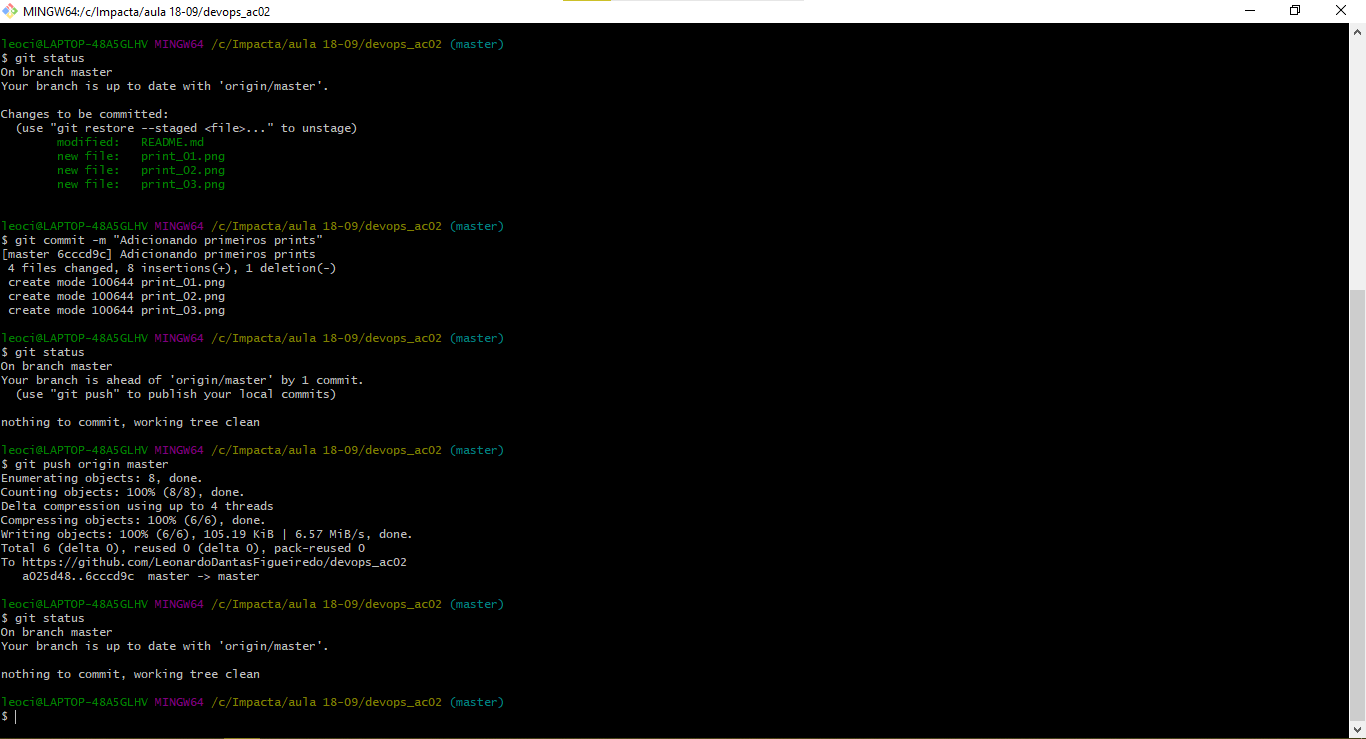
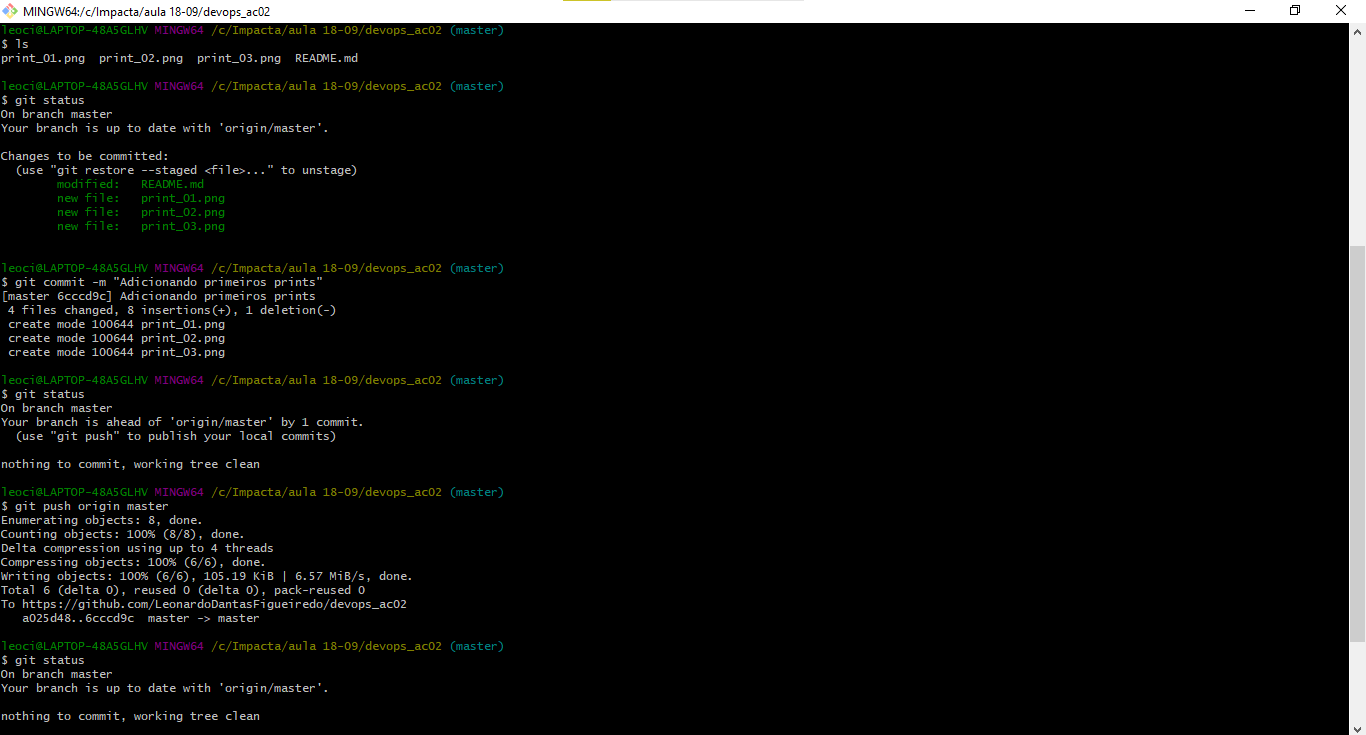
commit final

Changed region(s): [[0.0, 0.0299, 1.0, 1.0], [0.9839, 0.3293, 1.0, 0.3891], [0.2152, 0.2095, 0.2767, 0.2395]]

diff --git a/README.md b/README.md
@@ -6,3 +6,35 @@
 3. git clone https://github.com/LeonardoDantasFigueiredo/devops_ac02
 4. cd devops_ac02
 5. ls (print_03 mostrando diretório do projeto e README nele contido)
+
+### Exemplo comando Add:
+
+1. git add --all (print_04 adiciona arquivos ao repositório local e faz stage para commit)
+2. ls (print_05 mostrando novos arquivos no repositório local)
+3. git status (print_06 arquivos em stage prontos para commit )
+
+### Exemplo comando Commit:
+
+1. git commit (print_07 commitando as modificações e deixando pronto para dar push pro repositório remoto)
+2. git status (print_08 informando que nosso repositório local tem modificações a frente do repositório remoto)
+
+### Exemplo comando Push:
+
+1. git push (print_09 realiza o push das modificações feitas no repositório local para o remoto indicado)
+2. git status (print_10 informando que os repositórios estão atualizados)
+
+### Exemplo comando Fetch:
+1. git status (print_11 informando que o repositório remoto tem modificações a frente do repositório local)
+2. git fetch (baixa os arquivos do repositório remoto mas não os grava no repositório local)
+3. git merge (print_12 grava os arquivos do repositório remoto no repositório local)
+
+### Exemplo comando Pull:
+
+1. git status (print_13 confirmando se existem mudanças nos repositórios)
+2. git pull (print_14 buscar e baixar arquivos dos repositórios remotos e fazer a atualização imediata ao repositório local para que os conteúdos sejam iguais)
+
+### Exemplo comando Checkout:
+
+1. git branch (print_15 criando uma nova branch)
+2. git checkout (print_15 mudando para a nova branch)
+3. git status (print_15 informando que existem mudanças sem stage)
